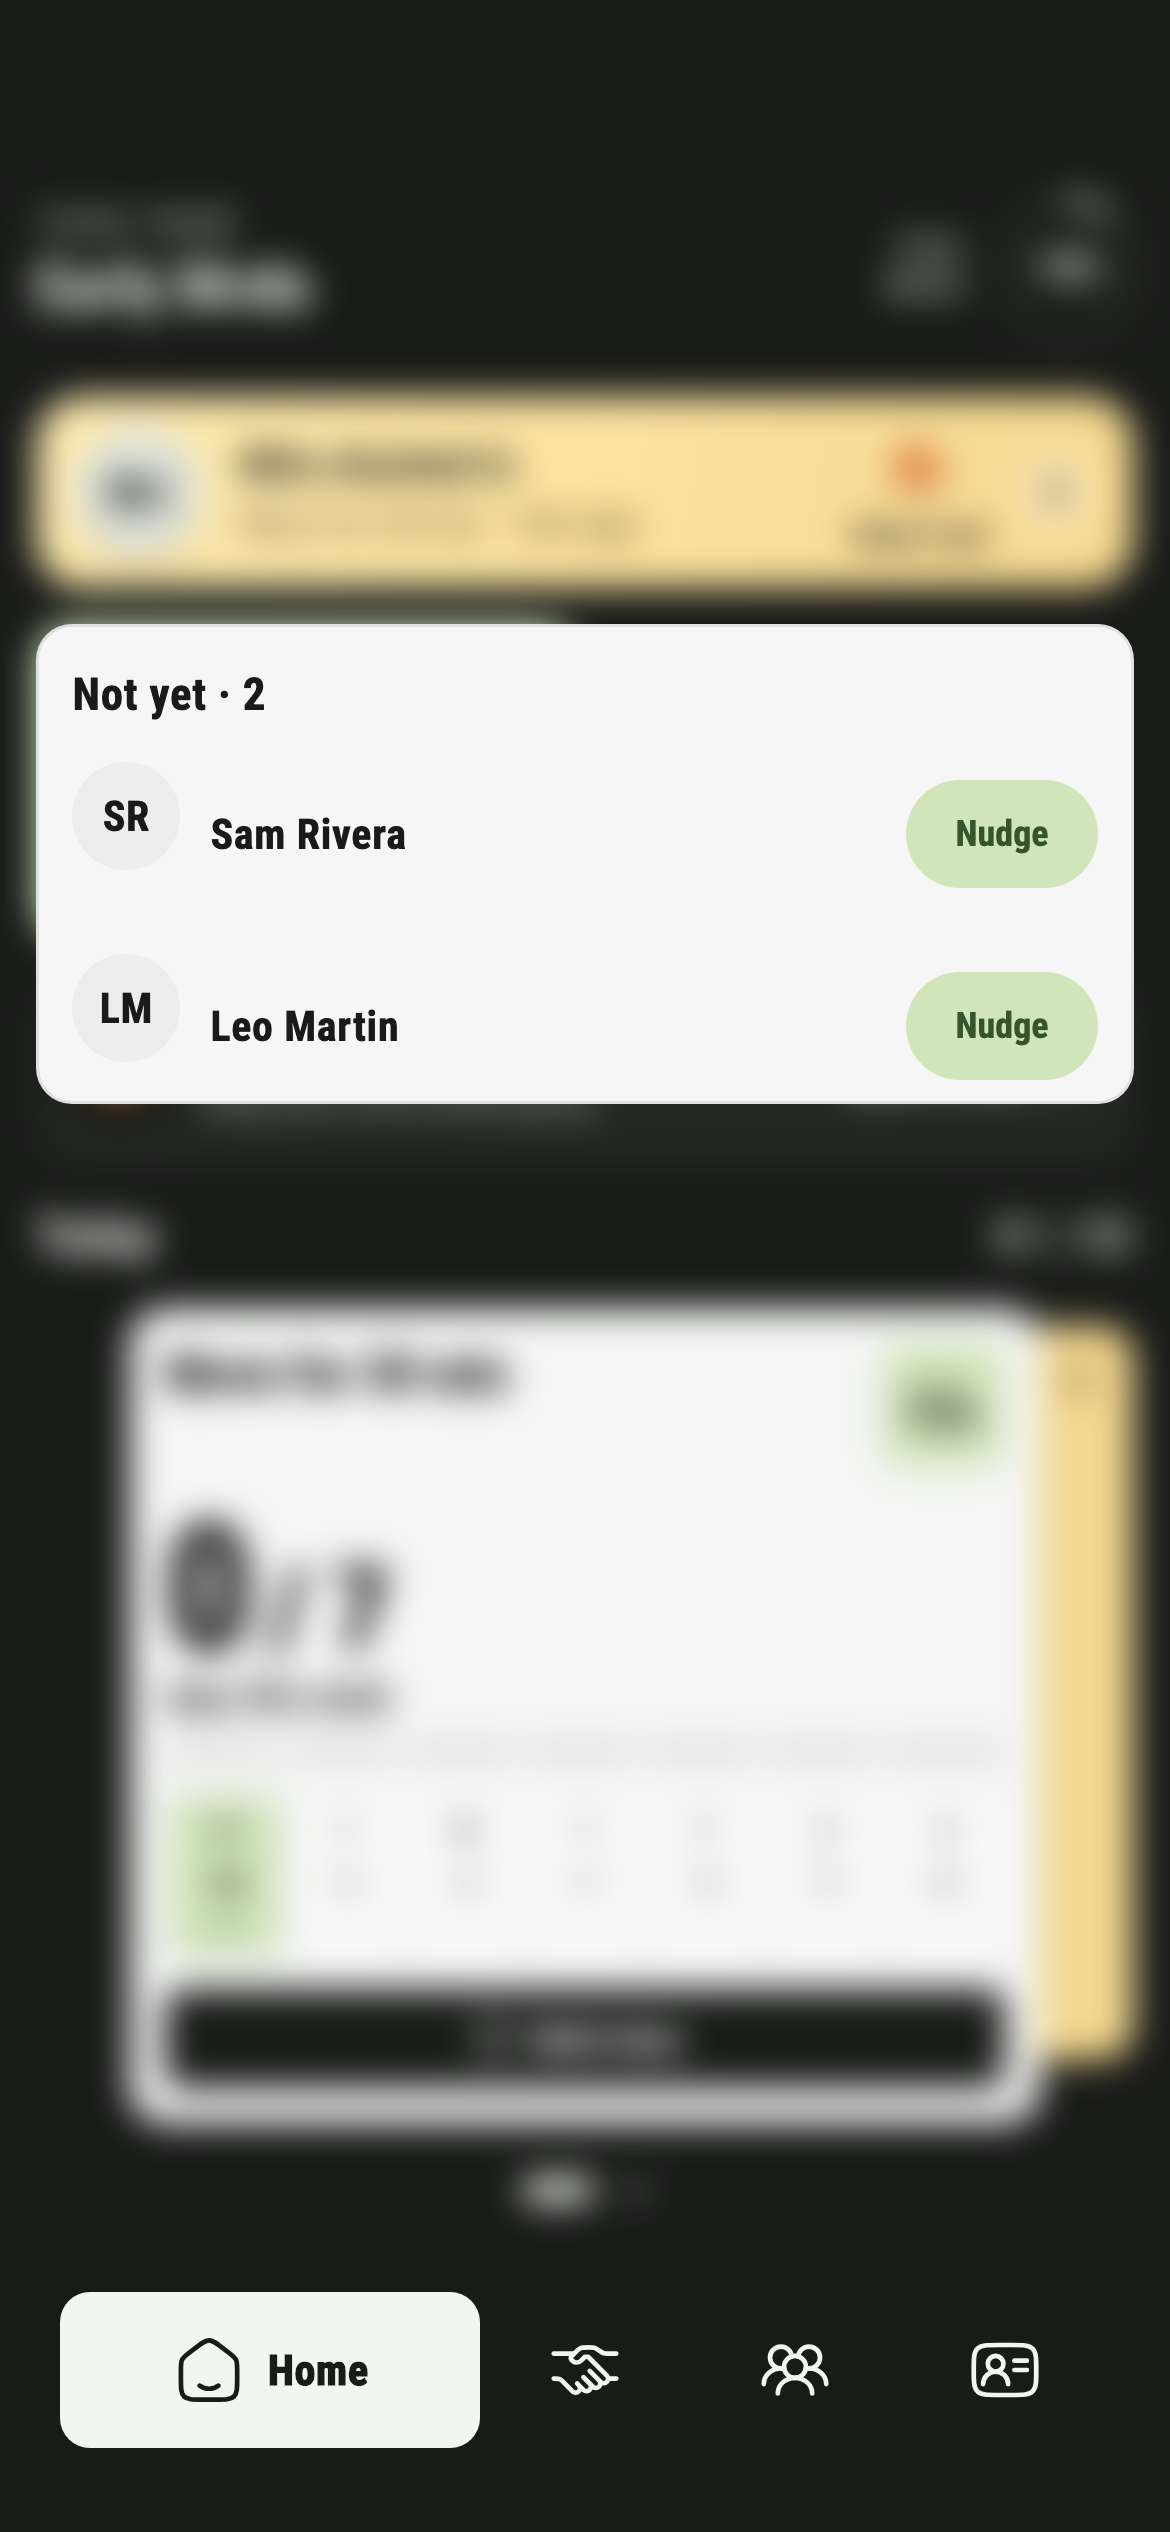
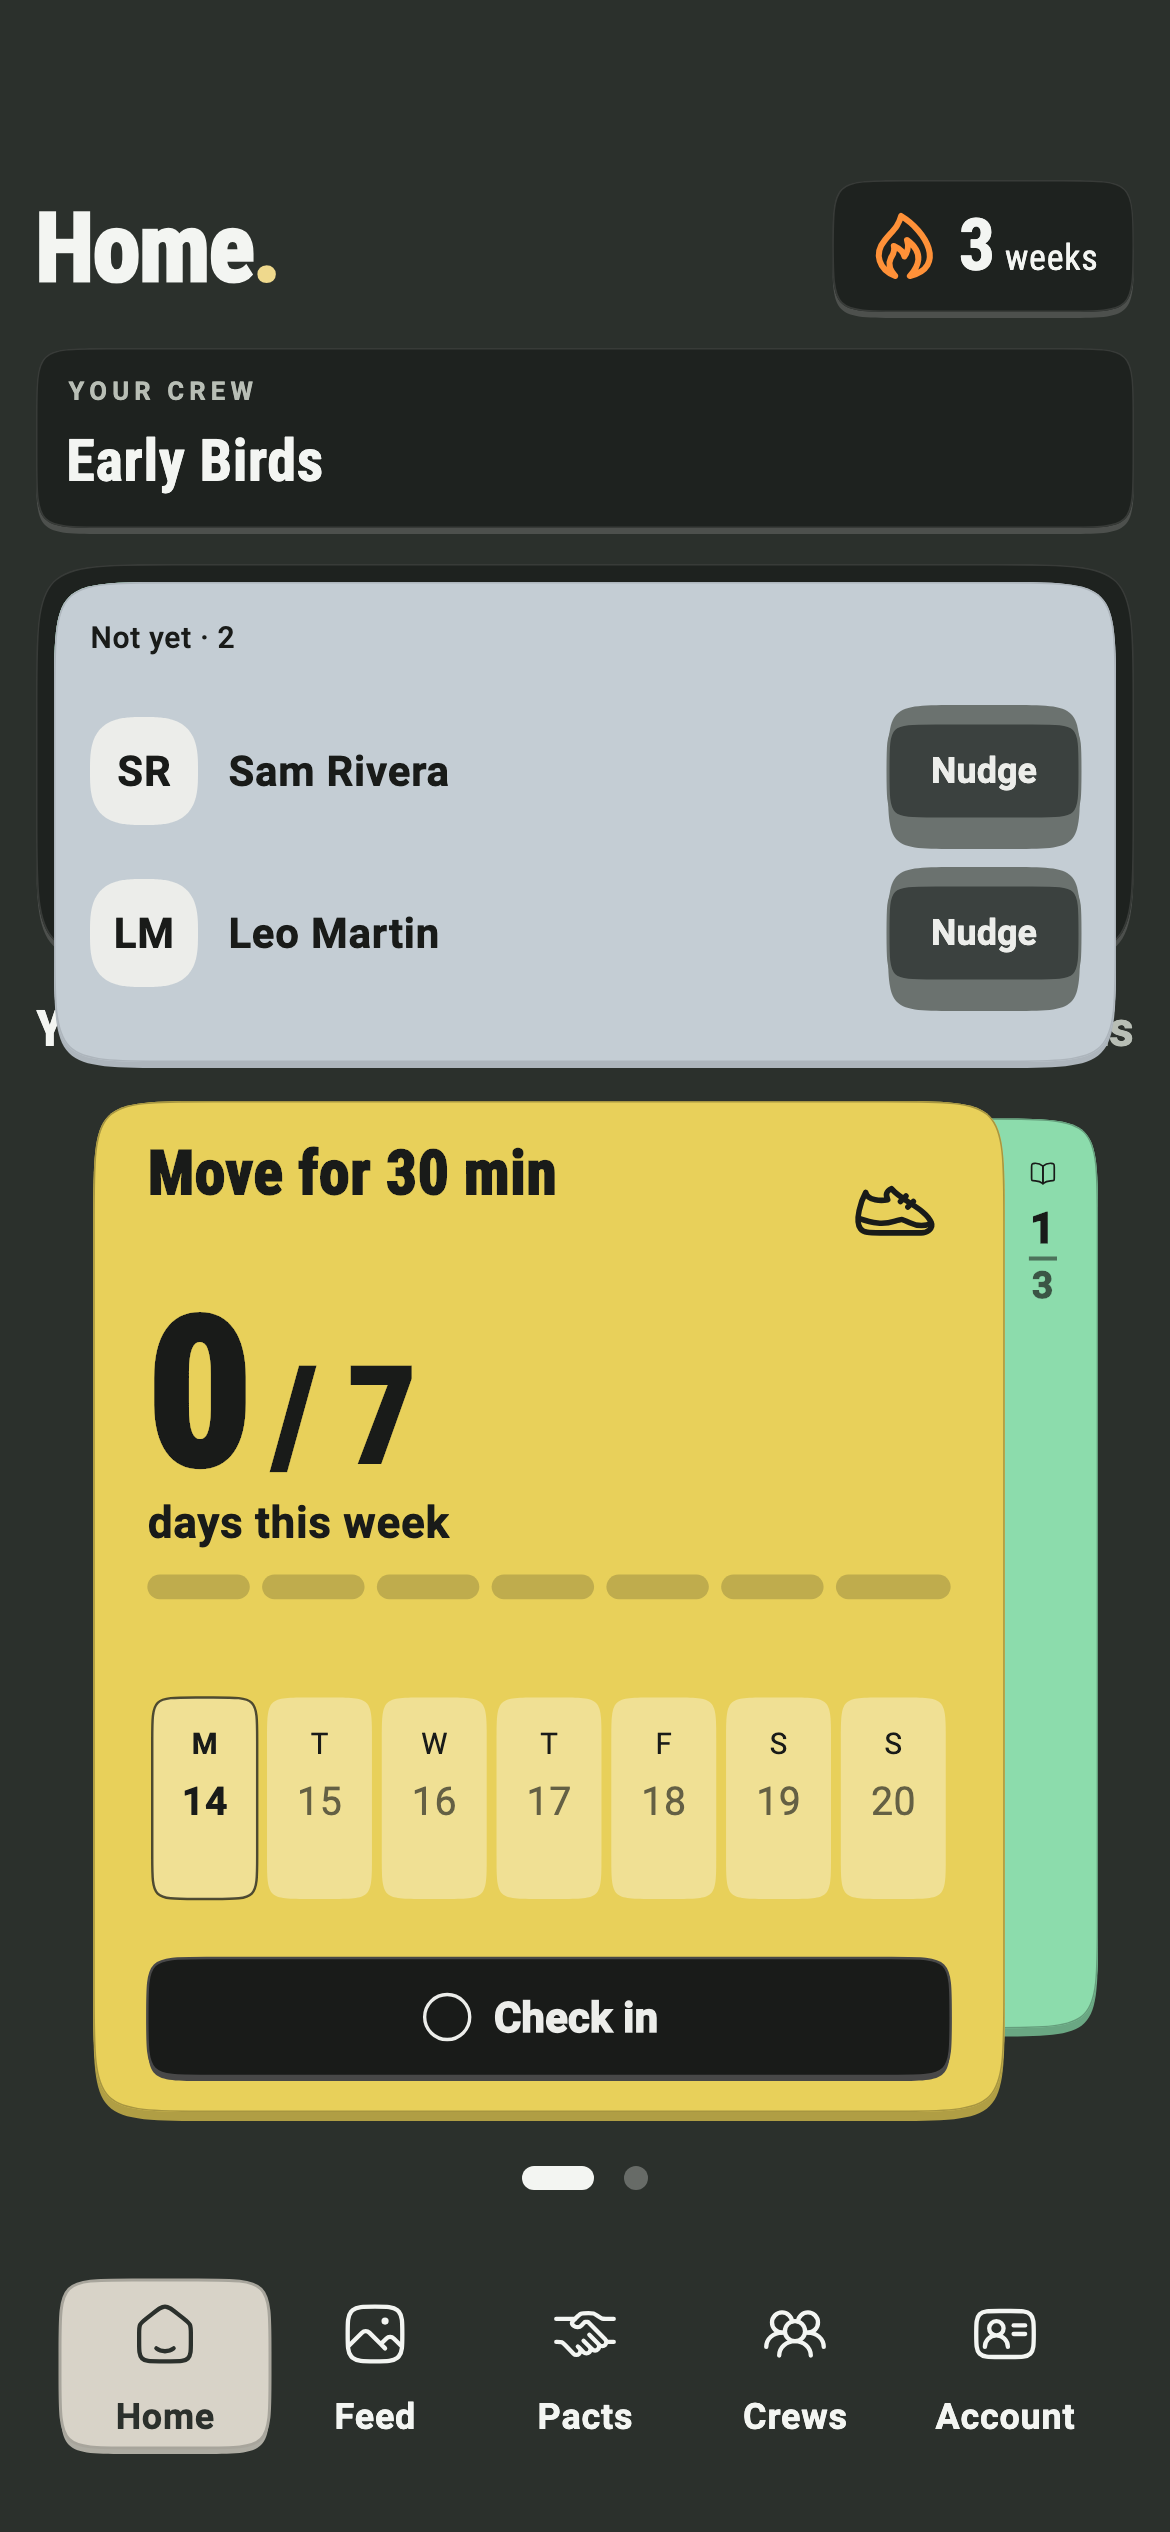
Website update.

diff --git a/website/src/styles/global.css b/website/src/styles/global.css
@@ -41,7 +41,11 @@
   --streak:#ff9138;
   --done:#3f7a57;
 
-  /* Corners. Four, as in the app, and a screen reaches for one of them. */
+  /* Corners. Four, as in the app, and a screen reaches for one of them.
+     These are the corners as plain rounded rects — `controlRadius` and
+     `cardCorner`. The @supports block below swaps the three squircle corners
+     for the larger numbers the same corner needs once it is drawn as one
+     (`cardCurve`, `panelCurve`), which is what `curveFor` does in the app. */
   --r-control:8px;
   --r-panel:14px;
   --r-card:20px;
@@ -102,15 +106,22 @@ svg{flex-shrink:0;vertical-align:middle}
 .surface .muted,.surface p{color:var(--muted)}
 .surface--dark .muted,.surface--dark p{color:var(--dark-muted)}
 
-/* Continuous corners where the browser can draw them, plain rounded rects
-   everywhere else. */
+/* ---- Continuous corners ----------------------------------------------
+   The squircle is the brand's corner, so every box takes it rather than a
+   chosen few. Redefining the corner tokens themselves means each box keeps
+   asking for the corner it already asked for — including the ones restated
+   inside media queries — and lands on the app's own curve. Browsers that
+   cannot draw the shape keep the plain radii, so it degrades, not breaks. */
 @supports (corner-shape:squircle){
-  .surface,.button,.icon-tile,.nav-cta{corner-shape:squircle}
-  .surface{border-radius:calc(var(--r-card) * 1.2)}
-  .surface--panel{border-radius:calc(var(--r-panel) * 1.2)}
-  .button,.nav-cta{border-radius:calc(var(--r-button) * 1.2)}
-  .icon-tile{border-radius:calc(var(--r-panel) * 1.2)}
+  :root{
+    --r-card:40px;   /* cardCurve */
+    --r-panel:24px;  /* panelCurve */
+    --r-button:24px; /* SquircleButtonBorder, which caps its curve at 24 */
+  }
+  .surface,.button,.icon-tile,.nav-cta,.wordmark img{corner-shape:squircle}
 }
+/* `--r-control` is deliberately absent above: a control, a cell or a flat
+   panel is a rounded rect of `controlRadius` in the app too, and stays one. */
 
 /* A flat glyph on its own small raised panel — the app's `RaisedIcon`. */
 .icon-tile{
@@ -156,7 +167,7 @@ svg{flex-shrink:0;vertical-align:middle}
 .site-header{display:flex;align-items:center;justify-content:space-between;gap:30px;padding-block:26px}
 .wordmark{display:inline-flex;align-items:center;gap:10px;font-size:30px;font-weight:700;letter-spacing:-.035em;line-height:1;text-decoration:none;white-space:nowrap}
 .wordmark img{display:block;flex:none;width:36px;height:36px;border-radius:9px}
-@supports (corner-shape:squircle){.wordmark img{corner-shape:squircle;border-radius:12px}}
+@supports (corner-shape:squircle){.wordmark img{border-radius:14px}}
 .site-header nav{display:flex;align-items:center;gap:26px;font-family:WeekPactText,Arial,sans-serif;font-size:15px}
 .site-header nav a{text-decoration:none}
 .site-header nav a:not(.nav-cta):hover{text-decoration:underline}
@@ -174,6 +185,7 @@ svg{flex-shrink:0;vertical-align:middle}
 .footer-content{display:flex;align-items:center;justify-content:space-between;flex-wrap:wrap;gap:18px;padding-block:26px}
 .site-footer .wordmark{font-size:21px}
 .site-footer .wordmark img{width:26px;height:26px;border-radius:7px}
+@supports (corner-shape:squircle){.site-footer .wordmark img{border-radius:10px}}
 .site-footer nav{display:flex;gap:20px}
 .site-footer nav a,.site-footer p{font-family:WeekPactText,Arial,sans-serif;font-size:13px;color:var(--canvas-muted)}
 

diff --git a/lib/src/home/today_widgets.dart b/lib/src/home/today_widgets.dart
@@ -1413,6 +1413,9 @@ class CrewCheckInTile extends StatelessWidget {
   /// The knockout between two overlapping faces.
   static const _faceRing = 2.0;
 
+  /// The bore of the tap hint punched through each tile.
+  static const _holeSize = 6.0;
+
   /// Beyond this the stack stops being faces and becomes a number.
   static const _maxFaces = 3;
   static const _faceSize = 34.0;
@@ -1486,16 +1489,8 @@ class CrewCheckInTile extends StatelessWidget {
                     left: done ? null : 8,
                     bottom: 7,
                     child: Opacity(
-                      opacity: (1 - expansion).clamp(0.0, 1.0) * .55,
-                      child: const SizedBox.square(
-                        dimension: 6,
-                        child: DecoratedBox(
-                          decoration: ShapeDecoration(
-                            color: _ink,
-                            shape: CircleBorder(),
-                          ),
-                        ),
-                      ),
+                      opacity: (1 - expansion).clamp(0.0, 1.0),
+                      child: _tapHole(context),
                     ),
                   ),
                 Column(
@@ -1559,6 +1554,35 @@ class CrewCheckInTile extends StatelessWidget {
       ),
     ),
   );
+
+  /// The tap hint, drawn as a hole bored through the tile: the crew week
+  /// surface the tiles sit in shows through the bore, the tile's own material
+  /// darkens its top wall, and a lit rim sits under its bottom lip — the
+  /// inverse of the raised edge every other surface carries, so the light
+  /// still comes from above.
+  Widget _tapHole(BuildContext context) {
+    final bore = CrewHeaderSurface.faceColor(context);
+    return SizedBox.square(
+      dimension: _holeSize,
+      child: DecoratedBox(
+        decoration: ShapeDecoration(
+          shape: const CircleBorder(),
+          gradient: LinearGradient(
+            begin: Alignment.topCenter,
+            end: Alignment.bottomCenter,
+            colors: [Color.lerp(bore, Colors.black, .45)!, bore],
+            stops: const [0, .7],
+          ),
+          shadows: [
+            BoxShadow(
+              color: Color.lerp(_tileFill(done), Colors.white, .6)!,
+              offset: const Offset(0, 1),
+            ),
+          ],
+        ),
+      ),
+    );
+  }
 
   /// Collapsed, the tile leads with the count and lets faces fill the rest.
   /// Nobody on this side means the count would be a zero nobody asked for, so

diff --git a/website/src/styles/home.css b/website/src/styles/home.css
@@ -21,6 +21,13 @@
 }
 .phone:after{content:'';position:absolute;right:-2px;top:132px;width:3px;height:56px;border-radius:3px;background:#5a615a}
 .phone-screen{position:relative;overflow:hidden;border-radius:38px;background:var(--canvas)}
+/* The handset is a squircle before anything on the site is — drawing it as a
+   plain rounded rect is what makes a mock phone read as a mock. */
+@supports (corner-shape:squircle){
+  .phone,.phone-screen{corner-shape:squircle}
+  .phone{border-radius:60px}
+  .phone-screen{border-radius:52px}
+}
 .phone-screen img{display:block;width:100%;height:auto}
 .island{position:absolute;top:10px;left:50%;transform:translateX(-50%);width:76px;height:22px;border-radius:20px;background:#050605}
 .phone-time,.phone-status{position:absolute;top:13px;font:500 10px/1 WeekPactText,Arial,sans-serif;color:#fff}
@@ -31,6 +38,10 @@
 /* The screen switcher borrows the app's navigation highlight. */
 .screen-switch{display:flex;gap:4px;padding:4px;margin-top:34px;background:var(--dark-fill);border:1px solid var(--dark-outline);border-radius:var(--r-panel)}
 .screen-switch button{font:500 14px/1 WeekPactText,Arial,sans-serif;color:var(--dark-muted);background:none;border:0;padding:10px 18px;border-radius:10px;cursor:pointer}
+@supports (corner-shape:squircle){
+  .screen-switch,.screen-switch button{corner-shape:squircle}
+  .screen-switch button{border-radius:18px}
+}
 .screen-switch button[aria-pressed=true]{background:#d8d3c8;color:var(--ink);font-weight:700}
 .demo-caption{margin-top:14px}
 

diff --git a/lib/src/crew/crew_switcher.dart b/lib/src/crew/crew_switcher.dart
@@ -434,13 +434,16 @@ class CrewHeaderSurface extends StatelessWidget {
   /// them; on its own it keeps the panel curve.
   final double curve;
 
+  /// The surface's own fill. Recessed against the canvas by the same amount in
+  /// either theme, so the header keeps its relationship when the canvas colour
+  /// changes. Exposed so what sits inside the surface can borrow it.
+  static Color faceColor(BuildContext context) => context.isDark
+      ? Color.lerp(context.canvas, Colors.black, .3)!
+      : Color.lerp(context.canvas, context.ink, .07)!;
+
   @override
   Widget build(BuildContext context) {
-    // Recessed against the canvas by the same amount in either theme, so the
-    // header keeps its relationship when the canvas colour changes.
-    final face = context.isDark
-        ? Color.lerp(context.canvas, Colors.black, .3)!
-        : Color.lerp(context.canvas, context.ink, .07)!;
+    final face = faceColor(context);
     return DecoratedBox(
       decoration: ShapeDecoration(
         shape: ContinuousRectangleBorder(

diff --git a/tool/capture_marketing.dart b/tool/capture_marketing.dart
@@ -55,6 +55,11 @@ void main() {
       ..addFont(rootBundle.load('assets/fonts/RobotoCondensed-Regular.ttf'))
       ..addFont(rootBundle.load('assets/fonts/RobotoCondensed-Bold.ttf'));
     await regular.load();
+    final text = FontLoader('Roboto')
+      ..addFont(rootBundle.load('assets/fonts/Roboto-Regular.ttf'))
+      ..addFont(rootBundle.load('assets/fonts/Roboto-Medium.ttf'))
+      ..addFont(rootBundle.load('assets/fonts/Roboto-Bold.ttf'));
+    await text.load();
     final material = FontLoader('MaterialIcons')
       ..addFont(rootBundle.load('fonts/MaterialIcons-Regular.otf'));
     await material.load();
@@ -96,6 +101,7 @@ void main() {
 
     await capture('home');
     await tester.tap(find.byKey(const ValueKey('pending-tile')));
+    await tester.pumpUi();
     await tester.pumpUi();
     await capture('crew');
     expect(tester.takeException(), isNull);

diff --git a/docs/design-system.md b/docs/design-system.md
@@ -139,7 +139,16 @@ the edge to 3px, `.surface--dark` takes `WeekPactDarkCard`'s closed set, and
 `.button`, `.nav-cta` and `.icon-tile` use the same derivation. There are no
 blurred shadows and no background gradients. Corners are continuous squircles
 through `corner-shape: squircle` where the browser draws them and plain rounded
-rects everywhere else, so the shape degrades rather than breaking.
+rects everywhere else, so the shape degrades rather than breaking. The squircle
+is the brand's corner, so every box takes it — cards, buttons, tiles, the
+wordmark's icon, the screen switcher and the mock handset alike, not a chosen
+few. The `@supports` block redefines the corner tokens rather than restating
+radii per selector, so a box keeps asking for the corner it already asked for
+(including the ones restated inside media queries) and lands on the app's own
+curve: `--r-card` becomes `cardCurve` (40), `--r-panel` and `--r-button` become
+`panelCurve` (24), matching `SquircleButtonBorder`'s cap. `--r-control` is
+deliberately left out — a control, a cell or a flat panel is a rounded rect of
+`controlRadius` on the web the same as it is in the app.
 
 `src/components/HugeIcon.astro` carries the same Hugeicons Stroke Rounded 1.1.7
 glyphs the app draws with, inlined as path data at build time so a page ships
